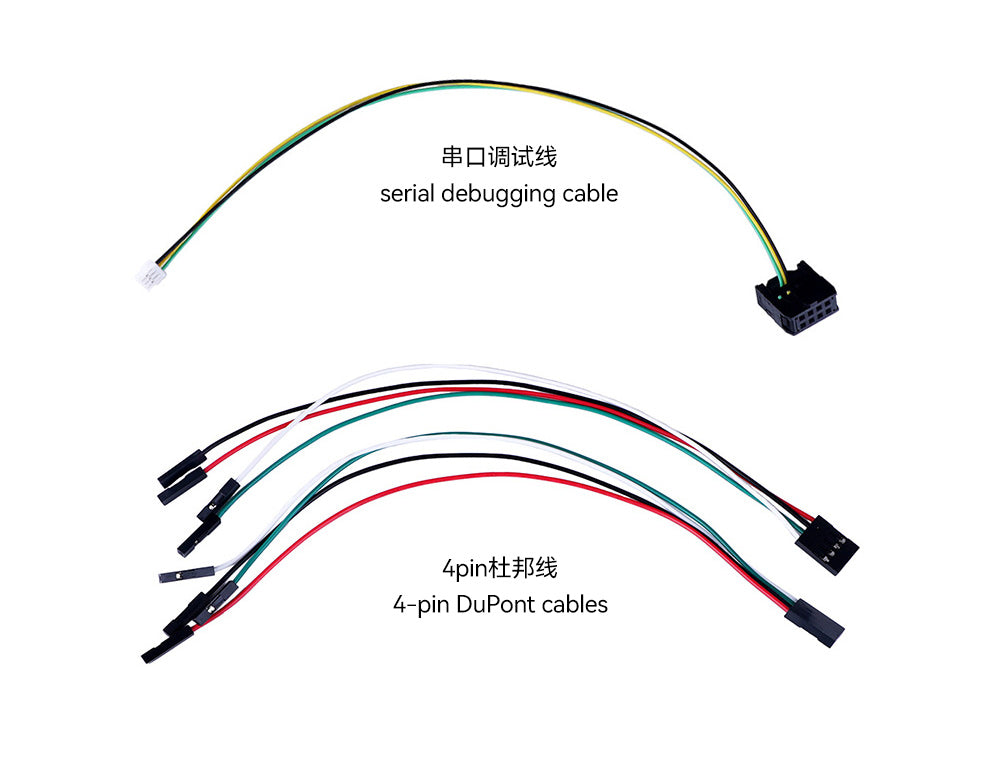
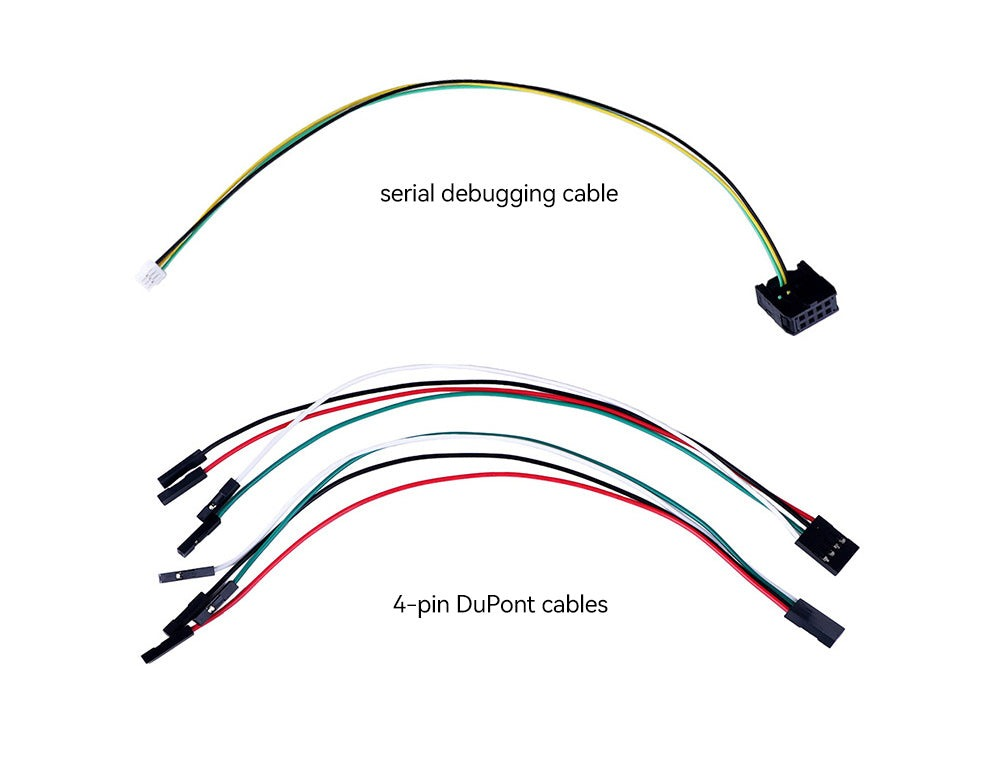
Lead the Accessories card with the R-LINK, and drop the Chinese from one photo
Left to itself the card picked the first accessory that had a photograph,
which is a bare driver board — it reads as a spare part rather than as a
category. A collection can now name the photo that stands for it, and
Accessories names the R-LINK V3.0, the one accessory that looks like a
product.

The R-LINK cable set photograph carried bilingual captions. Only the Chinese
lines are painted out; the English ones stay, so the picture still says what
it shows. The glyphs sit at x 443-557 and the nearest cable at x 259, so the
box that goes white clears the cables entirely.

diff --git a/assets/js/app.js b/assets/js/app.js
@@ -623,9 +623,13 @@
     if (cg) cg.innerHTML = COLS.map(function (c) {
       var items = inCollection(c.id);
       var n = items.length;
+      /* A collection can name the photo that stands for it; otherwise the
+         picker takes the first member that has one. */
+      var named = c.hero && items.filter(function (p) { return p.id === c.hero; })[0];
       return '<a class="cat-card" href="' + collectionHref(c) + '">' +
         '<span class="badge-us compact">' + ICON.flag + "<span>US-based support</span></span>" +
-        '<div class="thumb">' + pickCat(items, c.name) + "</div>" +
+        '<div class="thumb">' +
+          (named ? photo(named, 0, c.name) : pickCat(items, c.name)) + "</div>" +
         "<h3>" + esc(c.name) + "</h3><p>" + esc(c.blurb) + "</p>" +
         '<span class="more">' + n + " model" + (n === 1 ? "" : "s") + " &rarr;</span></a>";
     }).join("");

diff --git a/assets/js/data.js b/assets/js/data.js
@@ -79,6 +79,10 @@ window.COLLECTIONS = [
   },
   {
     id: "accessories", name: "Accessories", parent: "actuators", art: "accessory",
+    /* Left to itself the card picks the first accessory with a photo, which
+       is a bare circuit board — it reads as a spare part, not a category.
+       The R-LINK is the one accessory that looks like a product. */
+    hero: "rubik-link-v3-0",
     tease: "Drivers, adapters, links",
     blurb: "Driver boards, CAN adapters, and configuration links for the actuators we carry.",
     long: "The small parts that hold up a build: standalone driver boards for each actuator series, USB-to-CAN links for configuration and tuning, and the cabling that connects them."
